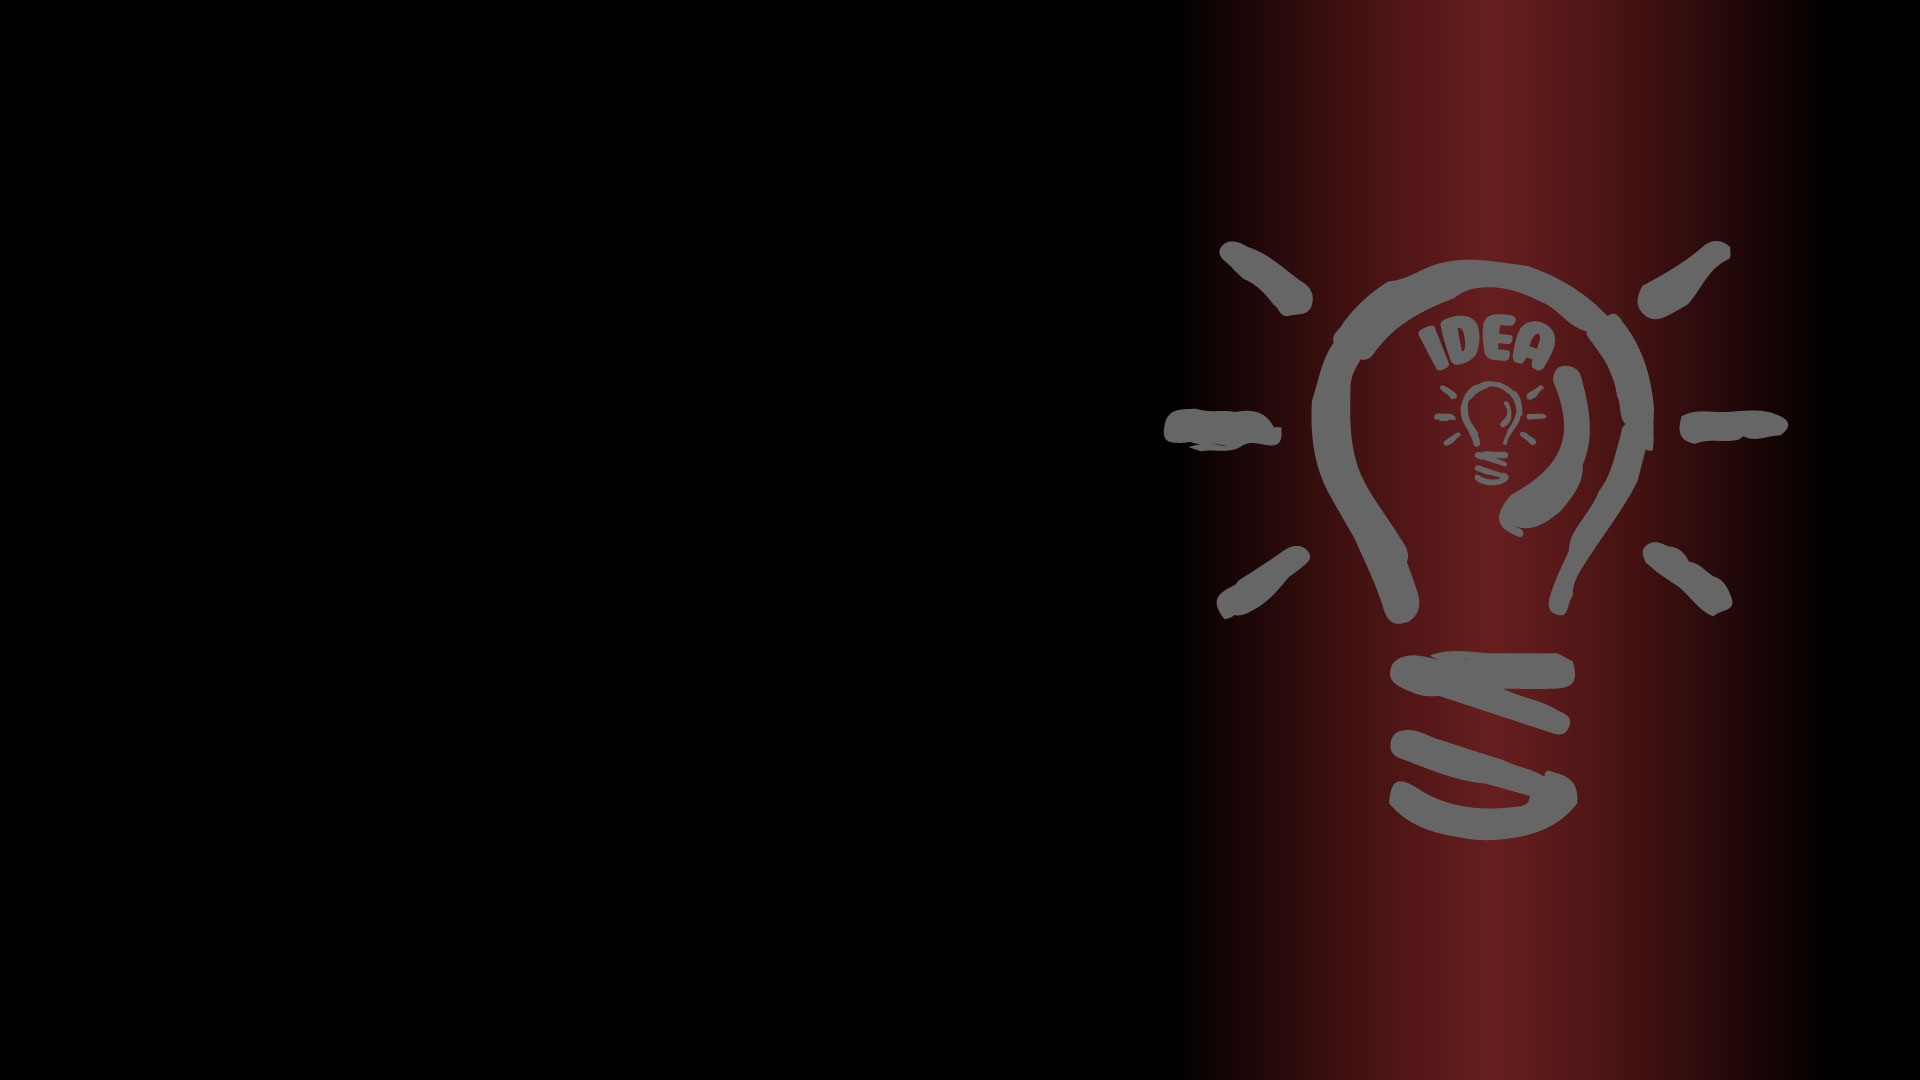
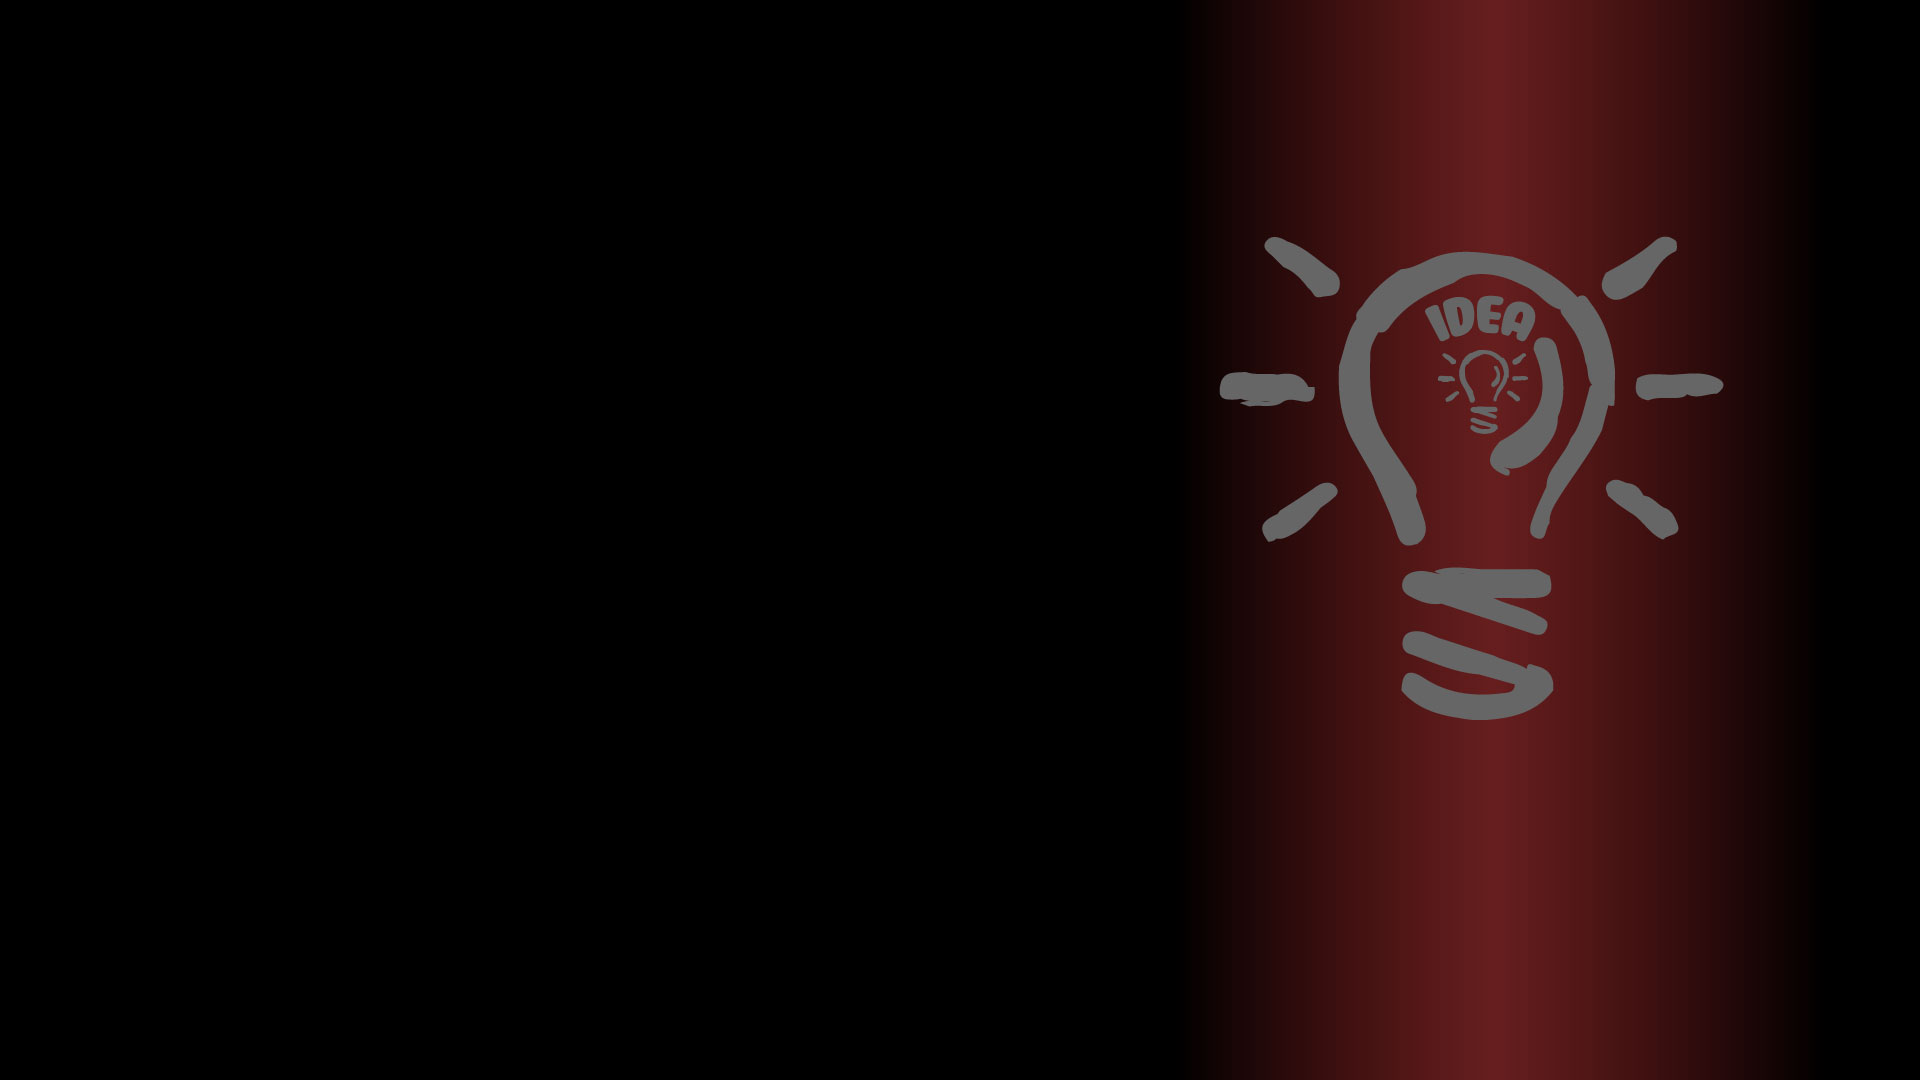
Imagenes del Hero cambiadas

Changed region(s): [[0.5938, 0.2139, 0.9375, 0.7944]]

diff --git a/assets/css/styles.css b/assets/css/styles.css
@@ -581,8 +581,13 @@ h1, h2, h3 { font-family: var(--font-display); letter-spacing: -.02em; }
   .fab { width: 48px; height: 48px; bottom: 16px; }
   .fab-whatsapp { right: 16px; }
   .fab-top { left: 16px; }
-  .hero-slide { background-position: 85% center !important; }
-  .hero h1 { font-size: 32px; max-width: 100%; }
+  .hero-slide { background-position: 88% center !important; background-size: cover !important; }
+  .hero-overlay {
+    background:
+      linear-gradient(180deg, rgba(14, 14, 14, .45) 0%, rgba(14, 14, 14, .55) 45%, rgba(14, 14, 14, .92) 100%) !important;
+  }
+  .hero h1 { font-size: 32px; max-width: 100%; text-shadow: 0 2px 10px rgba(0, 0, 0, .6); }
+  .hero .lead, .badge { text-shadow: 0 1px 6px rgba(0, 0, 0, .5); }
 }
 
 /* ==========================================================================

diff --git a/_v3/s.js b/_v3/s.js
@@ -1,0 +1,15 @@
+const { chromium } = require('playwright');
+const path = require('path');
+(async () => {
+  const b = await chromium.launch();
+  const p = await b.newPage({ viewport: { width: 390, height: 844 } });
+  await p.goto('file:///' + path.resolve(__dirname, '..', 'index.html').replace(/\\/g, '/'), { waitUntil: 'networkidle' });
+  for (let i = 0; i < 5; i++) {
+    await p.evaluate((idx) => {
+      document.querySelectorAll('.hero-dot')[idx].click();
+    }, i);
+    await p.waitForTimeout(1600);
+    await p.screenshot({ path: path.join(__dirname, 'slide-' + i + '.png') });
+  }
+  await b.close();
+})();
